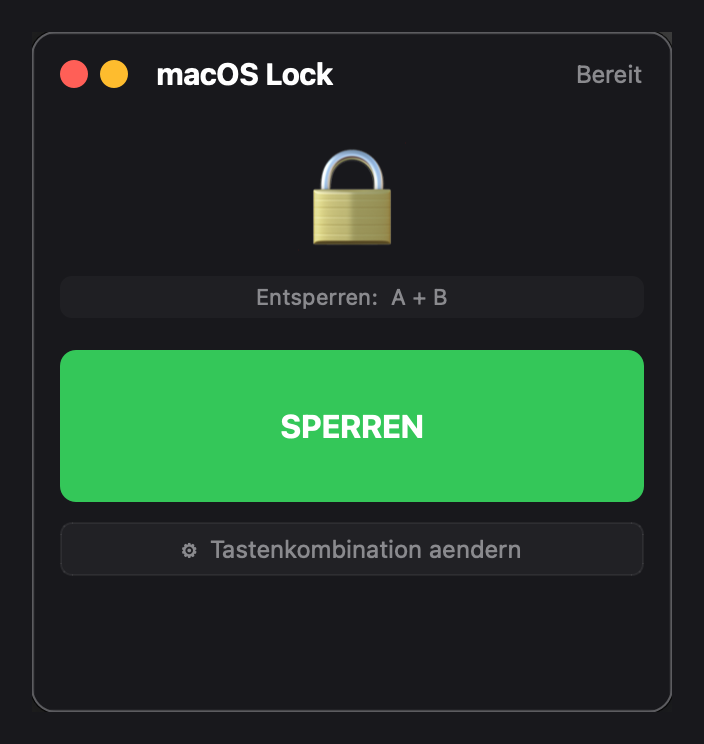
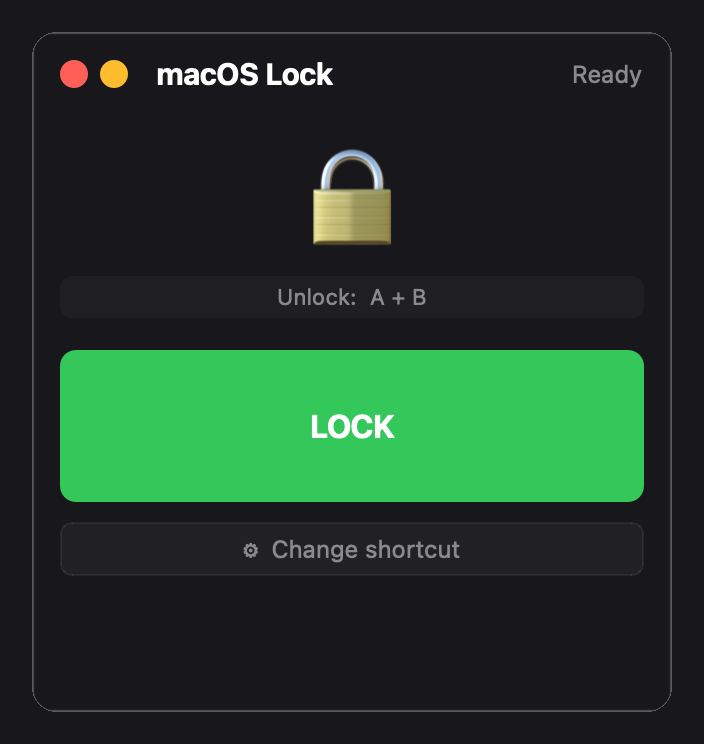
Translate UI to English

diff --git a/macos-lock-gui.py b/macos-lock-gui.py
@@ -332,7 +332,7 @@ class SettingsDialog(QDialog):
         self.captured_keys = []
         self.capturing = False
 
-        self.setWindowTitle("Einstellungen")
+        self.setWindowTitle("Settings")
         self.setFixedSize(360, 240)
         self.setStyleSheet(DIALOG_STYLE)
 
@@ -340,25 +340,25 @@ class SettingsDialog(QDialog):
         layout.setContentsMargins(24, 20, 24, 20)
         layout.setSpacing(10)
 
-        heading = QLabel("Entsperr-Tastenkombination")
+        heading = QLabel("Unlock Shortcut")
         heading.setObjectName("heading")
         heading.setAlignment(Qt.AlignmentFlag.AlignCenter)
         layout.addWidget(heading)
 
         current_display = " + ".join(k.upper() for k in current_keys)
-        info = QLabel(f"Aktuell: {current_display}")
+        info = QLabel(f"Current: {current_display}")
         info.setObjectName("info")
         info.setAlignment(Qt.AlignmentFlag.AlignCenter)
         layout.addWidget(info)
 
-        self.capture_label = QLabel("Klicke hier, dann Tasten druecken")
+        self.capture_label = QLabel("Click here, then press keys")
         self.capture_label.setObjectName("capture_area")
         self.capture_label.setAlignment(Qt.AlignmentFlag.AlignCenter)
         self.capture_label.setCursor(Qt.CursorShape.PointingHandCursor)
         self.capture_label.mousePressEvent = self._start_capture
         layout.addWidget(self.capture_label)
 
-        hint = QLabel("Mindestens 2 Tasten gleichzeitig druecken")
+        hint = QLabel("Press at least 2 keys simultaneously")
         hint.setObjectName("hint")
         hint.setAlignment(Qt.AlignmentFlag.AlignCenter)
         layout.addWidget(hint)
@@ -368,12 +368,12 @@ class SettingsDialog(QDialog):
         btn_row = QHBoxLayout()
         btn_row.setSpacing(8)
 
-        cancel_btn = QPushButton("Abbrechen")
+        cancel_btn = QPushButton("Cancel")
         cancel_btn.setObjectName("cancel")
         cancel_btn.clicked.connect(self.reject)
         btn_row.addWidget(cancel_btn)
 
-        self.save_btn = QPushButton("Speichern")
+        self.save_btn = QPushButton("Save")
         self.save_btn.setObjectName("save")
         self.save_btn.clicked.connect(self._save)
         btn_row.addWidget(self.save_btn)
@@ -383,7 +383,7 @@ class SettingsDialog(QDialog):
     def _start_capture(self, event=None):
         self.capturing = True
         self.captured_keys = []
-        self.capture_label.setText("Tasten druecken ...")
+        self.capture_label.setText("Press keys ...")
         self.capture_label.setObjectName("capture_active")
         self.capture_label.setStyleSheet(DIALOG_STYLE)
         self.setFocus()
@@ -425,7 +425,7 @@ class SettingsDialog(QDialog):
             self.accept()
         else:
             QMessageBox.warning(
-                self, "Hinweis", "Bitte mindestens 2 Tasten gleichzeitig druecken."
+                self, "Note", "Please press at least 2 keys simultaneously."
             )
 
 
@@ -486,7 +486,7 @@ class LockWindow(QMainWindow):
         titlebar.addWidget(title_label)
         titlebar.addStretch()
 
-        self.status_label = QLabel("Bereit")
+        self.status_label = QLabel("Ready")
         self.status_label.setObjectName("status")
         titlebar.addWidget(self.status_label)
 
@@ -504,14 +504,14 @@ class LockWindow(QMainWindow):
         shortcut_display = " + ".join(
             k.upper() for k in self.config["unlock_keys"]
         )
-        self.shortcut_label = QLabel(f"Entsperren:  {shortcut_display}")
+        self.shortcut_label = QLabel(f"Unlock:  {shortcut_display}")
         self.shortcut_label.setObjectName("shortcut_info")
         self.shortcut_label.setAlignment(Qt.AlignmentFlag.AlignCenter)
         root.addWidget(self.shortcut_label)
         root.addSpacing(16)
 
         # -- lock / unlock button --
-        self.lock_btn = QPushButton("SPERREN")
+        self.lock_btn = QPushButton("LOCK")
         self.lock_btn.setObjectName("lock")
         self.lock_btn.setCursor(Qt.CursorShape.PointingHandCursor)
         self.lock_btn.clicked.connect(self._toggle_lock)
@@ -519,7 +519,7 @@ class LockWindow(QMainWindow):
         root.addSpacing(10)
 
         # -- settings button --
-        self.settings_btn = QPushButton("\u2699  Tastenkombination aendern")
+        self.settings_btn = QPushButton("\u2699  Change shortcut")
         self.settings_btn.setObjectName("settings")
         self.settings_btn.setCursor(Qt.CursorShape.PointingHandCursor)
         self.settings_btn.clicked.connect(self._open_settings)
@@ -560,9 +560,9 @@ class LockWindow(QMainWindow):
             if self.locker.lock():
                 self.is_locked = True
                 self.icon_label.setText("\U0001f513")
-                self.status_label.setText("Gesperrt")
+                self.status_label.setText("Locked")
                 self.status_label.setStyleSheet("color: #ff3b30;")
-                self.lock_btn.setText("ENTSPERREN")
+                self.lock_btn.setText("UNLOCK")
                 self.lock_btn.setObjectName("unlock")
                 self.lock_btn.setStyleSheet(STYLESHEET)
                 self.settings_btn.setEnabled(False)
@@ -581,9 +581,9 @@ class LockWindow(QMainWindow):
     def _reset_ui(self):
         self.is_locked = False
         self.icon_label.setText("\U0001f512")
-        self.status_label.setText("Bereit")
+        self.status_label.setText("Ready")
         self.status_label.setStyleSheet("color: #8a8a8e;")
-        self.lock_btn.setText("SPERREN")
+        self.lock_btn.setText("LOCK")
         self.lock_btn.setObjectName("lock")
         self.lock_btn.setStyleSheet(STYLESHEET)
         self.settings_btn.setEnabled(True)
@@ -599,7 +599,7 @@ class LockWindow(QMainWindow):
         save_config(self.config)
         self.locker.set_unlock_keycodes(keys_to_keycodes(new_keys))
         display = " + ".join(k.upper() for k in new_keys)
-        self.shortcut_label.setText(f"Entsperren:  {display}")
+        self.shortcut_label.setText(f"Unlock:  {display}")
 
     # ---- accessibility check ----------------------------------------------
     @staticmethod
@@ -621,9 +621,9 @@ class LockWindow(QMainWindow):
     def _show_accessibility_dialog():
         reply = QMessageBox.question(
             None,
-            "Berechtigung erforderlich",
-            "Diese App benoetigt Zugriff auf die Bedienungshilfen.\n\n"
-            "Systemeinstellungen oeffnen?",
+            "Permission Required",
+            "This app requires Accessibility permissions.\n\n"
+            "Open System Settings?",
             QMessageBox.StandardButton.Yes | QMessageBox.StandardButton.No,
         )
         if reply == QMessageBox.StandardButton.Yes:

diff --git a/macos-lock.py b/macos-lock.py
@@ -1,7 +1,7 @@
 #!/usr/bin/env python3
 """
-macOS Tastatur und Touchpad Sperre (CLI)
-Sperrt alle Eingaben bis die konfigurierte Tastenkombination gedrueckt wird.
+macOS keyboard and trackpad lock (CLI).
+Blocks all input until the configured key combination is pressed.
 """
 
 import Quartz
@@ -98,9 +98,9 @@ class InputLocker:
         )
 
         if not tap:
-            print("Fehler: Konnte Event Tap nicht erstellen!")
-            print("Tipp: Erlaube Terminal/Python in Systemeinstellungen > ")
-            print("   Sicherheit & Datenschutz > Datenschutz > Bedienungshilfen")
+            print("Error: Could not create Event Tap!")
+            print("Tip: Grant Terminal/Python access in System Settings > ")
+            print("   Privacy & Security > Privacy > Accessibility")
             sys.exit(1)
 
         run_loop_source = Quartz.CFMachPortCreateRunLoopSource(
